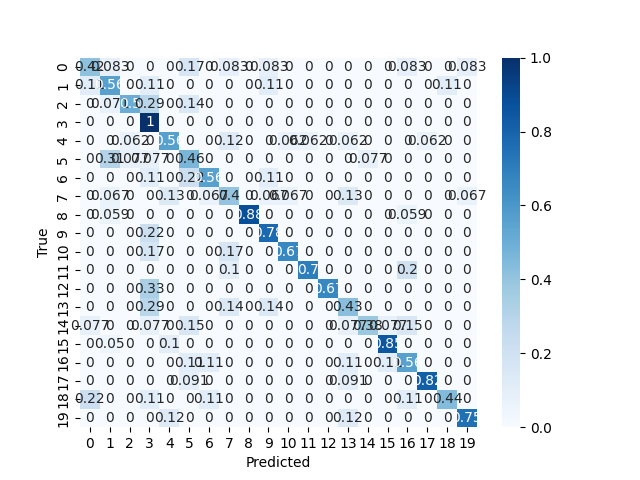
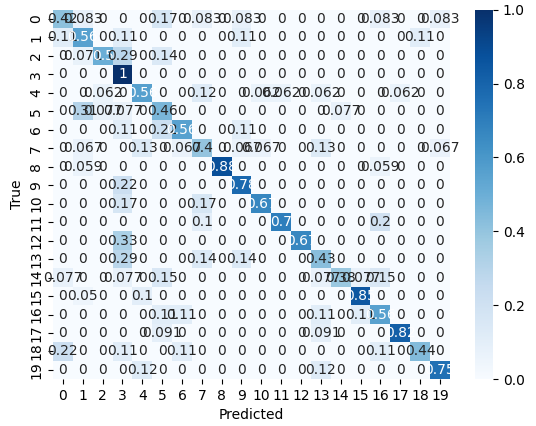
add key:feature

diff --git a/BoW.py b/BoW.py
@@ -79,7 +79,7 @@ if __name__ == '__main__':
 
     # k-means clusturing
     global num_cluster
-    num_cluster = 1400
+    num_cluster = 8
     km = KMeans(n_clusters=num_cluster, random_state=21)
     km.fit(feature_pca)
 
@@ -90,10 +90,11 @@ if __name__ == '__main__':
     for train_img in train_set:
         train_desc = train_img['desc']
         train_img_vector = encode_img(desc=train_desc, pca=pca, km=km)
+        train_img['feature'] = train_img_vector
         img_vectors_train.append(train_img_vector)
     X_train = np.vstack(img_vectors_train)
-    print("x-train: {}".format(X_train.shape))
-    np.save('train_img_vector_1400.npy', X_train)
+    print("train_set[0]: {}".format(train_set[0]))
+    np.save('train_img_vector_8.npy', X_train)
     y_train = get_all_item(data=train_set, key='label')
     np.save('train_label.npy', y_train)
 
@@ -105,6 +106,6 @@ if __name__ == '__main__':
         test_img_vector = encode_img(desc=test_desc, pca=pca, km=km)
         img_vectors_test.append(test_img_vector)
     X_test = np.vstack(img_vectors_test)
-    np.save('test_img_vector_1400.npy', X_test)
+    np.save('test_img_vector_8.npy', X_test)
     y_test = get_all_item(data=test_set, key='label')
     np.save('test_label.npy', y_test)
